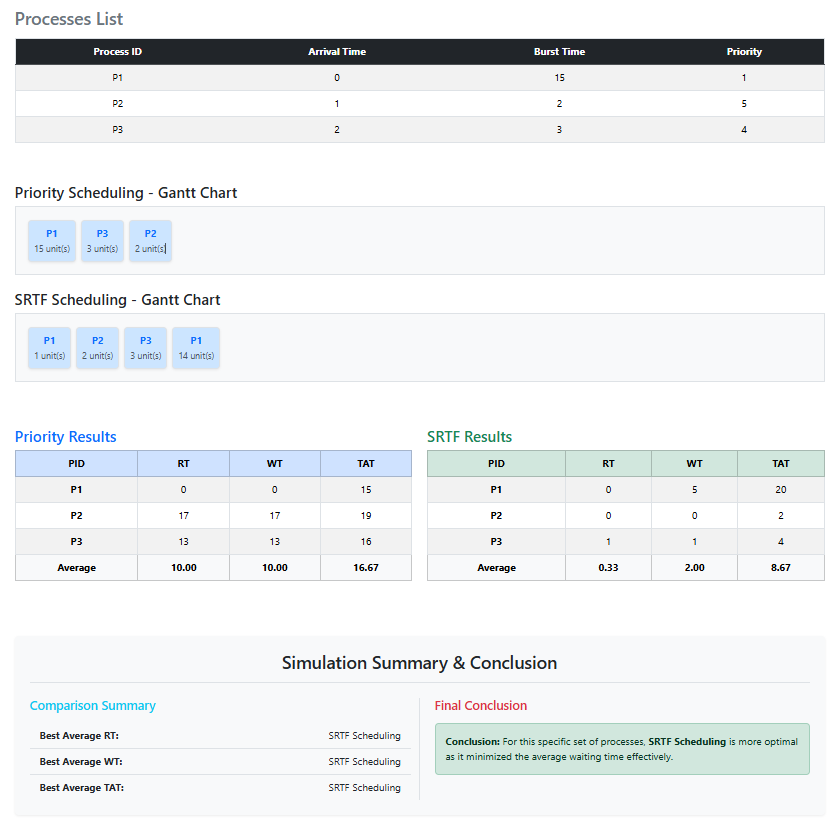
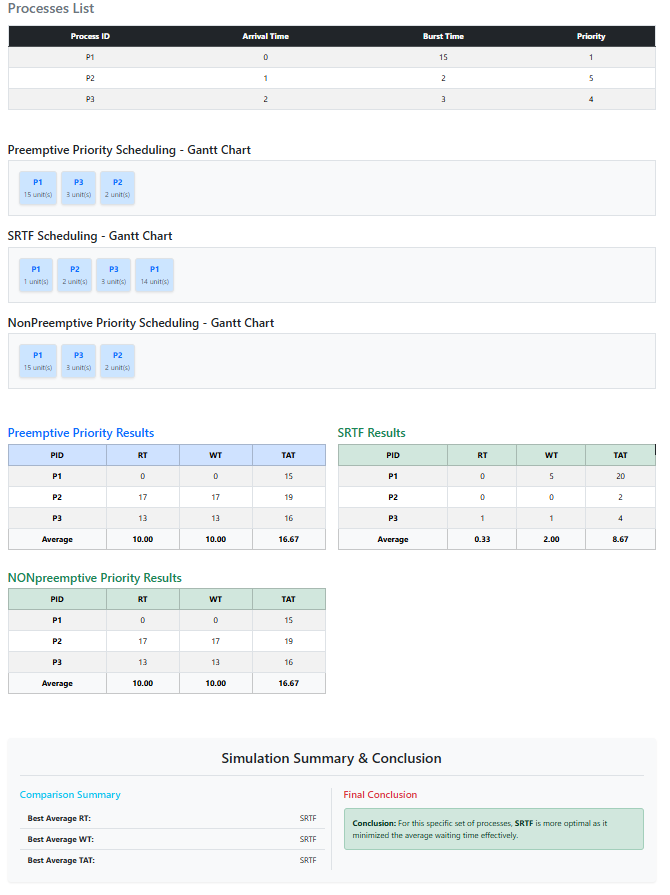
Final_V_2

diff --git a/src/metrics/Metrics.js b/src/metrics/Metrics.js
@@ -7,10 +7,22 @@ function calculateAverages(processes, timeline) {
 }
 
 function compare(p, s, np) {
-    let bestRT = (p.avgRT < s.avgRT &&p.avgRT < np.avgRT ) ? "Priority Scheduling" : (s.avgRT < p.avgRT && s.avgRT < np.avgRT) ? "SRTF Scheduling" :(np.avgRT < p.avgRT && np.avgRT < s.avgRT)? "Nonpreemptive Priority Scheduling ": "Tie (Both Equal)";
-    let bestWT = (p.avgWT < s.avgWT &&p.avgWT < np.avgWT ) ? "Priority Scheduling" : (s.avgWT < p.avgWT && s.avgWT < np.avgWT) ? "SRTF Scheduling" :(np.avgWT < p.avgWT && np.avgWT < s.avgWT)? "Nonpreemptive Priority Scheduling ": "Tie (Both Equal)";
-    let bestTAT =(p.avgTAT < s.avgTAT &&p.avgTAT < np.avgTAT ) ? "Priority Scheduling" : (s.avgTAT < p.avgTAT && s.avgTAT < np.avgTAT) ? "SRTF Scheduling" :(np.avgTAT < p.avgTAT && np.avgTAT < s.avgTAT)? "Nonpreemptive Priority Scheduling ": "Tie (Both Equal)";
+    
+    function getBestAlgorithm(pVal, sVal, npVal) {
+        let minVal = Math.min(pVal, sVal, npVal);
+        let winners = [];
+        
+        if (pVal === minVal) winners.push("Preemptive Priority");
+        if (sVal === minVal) winners.push("SRTF");
+        if (npVal === minVal) winners.push("Non-Preemptive Priority");
+        
+        if (winners.length === 3) return "Tie (All Equal)";
+        return winners.join(" & ");
+    }
 
+    let bestRT = getBestAlgorithm(p.avgRT, s.avgRT, np.avgRT);
+    let bestWT = getBestAlgorithm(p.avgWT, s.avgWT, np.avgWT);
+    let bestTAT = getBestAlgorithm(p.avgTAT, s.avgTAT, np.avgTAT);
 
     document.getElementById("bestRtAlgorithm").innerText = bestRT;
     document.getElementById("bestWtAlgorithm").innerText = bestWT;
@@ -19,14 +31,19 @@ function compare(p, s, np) {
     let conclusionBox = document.getElementById("finalConclusionBox");
     conclusionBox.className = "alert alert-success"; 
     
-    if (p.avgWT < s.avgWT && p.avgWT < np.avgWT) {
-        conclusionBox.innerHTML = `<strong>Conclusion:</strong> For this specific set of processes, <strong>Priority Scheduling</strong> performed better overall due to lower waiting times.`;
-    } else if (s.avgWT < p.avgWT && s.avgWT < np.avgWT) {
-        conclusionBox.innerHTML = `<strong>Conclusion:</strong> For this specific set of processes, <strong>SRTF Scheduling</strong> is more optimal as it minimized the average waiting time effectively.`;
-    }else if(np.avgWT < s.avgWT && np.avgWT < p.avgWT) {
-        conclusionBox.innerHTML = `<strong>Conclusion:</strong> For this specific set of processes, <strong>Nonpreemptive Priority Scheduling</strong> is more optimal as it minimized the average waiting time effectively.`;
-    }else {
-        conclusionBox.innerHTML = `<strong>Conclusion:</strong> Both algorithms performed identically for this specific input in terms of average waiting time.`;
+    let minWT = Math.min(p.avgWT, s.avgWT, np.avgWT);
+    let winnersWT = [];
+    
+    if (p.avgWT === minWT) winnersWT.push("<strong>Preemptive Priority</strong>");
+    if (s.avgWT === minWT) winnersWT.push("<strong>SRTF</strong>");
+    if (np.avgWT === minWT) winnersWT.push("<strong>Non-Preemptive Priority</strong>");
+
+    if (winnersWT.length === 3) {
+        conclusionBox.innerHTML = `<strong>Conclusion:</strong> All three algorithms performed identically for this specific input in terms of average waiting time.`;
+    } else if (winnersWT.length === 2) {
+        conclusionBox.innerHTML = `<strong>Conclusion:</strong> For this specific set of processes, ${winnersWT.join(" and ")} performed best as they equally minimized the average waiting time.`;
+    } else {
+        conclusionBox.innerHTML = `<strong>Conclusion:</strong> For this specific set of processes, ${winnersWT[0]} is more optimal as it minimized the average waiting time effectively.`;
     }
 }
 

diff --git a/test-cases/Scenario_A.md b/test-cases/Scenario_A.md
@@ -62,6 +62,14 @@ Based on the simulation results, the following processes were used:
      | P3 | 2 | 21 | 19 | 10 | 10 |
      | P4 | 3 | 26 | 23 | 18 | 18 |
 
+     ### Priority Scheduling (Non Preemptive)
+     | Process | AT | CT | TAT (CT-AT) | WT (TAT-BT) | RT |
+     | :--- | :---: | :---: | :---: | :---: | :---: |
+     | P1 | 0 | 8 | 8 | 0 | 0 |
+     | P2 | 1 | 12 | 11 | 7 | 7 |
+     | P3 | 2 | 26 | 24 | 15 | 15 |
+     | P4 | 3 | 17 | 14 | 9 | 9 |
+
      ### SRTF Scheduling
      | Process | AT | CT | TAT (CT-AT) | WT (TAT-BT) | RT |
      | :--- | :---: | :---: | :---: | :---: | :---: |
@@ -71,14 +79,14 @@ Based on the simulation results, the following processes were used:
      | P4 | 3 | 10 | 7 | 2 | 2 |
 
      ## 6-Results Summary (Averages):
-     | Metric | Priority Scheduling | SRTF Scheduling |
+     | Metric | Preemptive Priority Scheduling | SRTF Scheduling | Non preemptive Priority Scheduling
      | :--- | :---: | :---: |
-     | Avg Waiting Time | 8.00 ms | 6.50 ms |
-     | **Avg Turnaround Time** | 14.50 ms | 13.00 ms |
-     | **Avg Response Time** | 7.00 ms | 4.25 ms |
+     | Avg Waiting Time | 8.00 ms | 6.50 ms | 7.75 ms
+     | **Avg Turnaround Time** | 14.50 ms | 13.00 ms | 14.25 ms
+     | **Avg Response Time** | 7.00 ms | 4.25 ms | 7.75 ms
 
      ## 7-Conclusion
-     SRTF performed better in this scenario with a lower Average Waiting Time (**6.50 ms**). The difference in P1's waiting time (4ms vs 9ms) shows how SRTF prioritize shorter tasks over the original process
+     SRTF performed better in this scenario with a lower Average Waiting Time (**6.50 ms**). The difference in P1's waiting time (4ms vs 0ms vs 9ms) shows how SRTF prioritize shorter tasks over the original process
 
      ![Scenario A Result](../screenshots/Senario_A.PNG)
    

diff --git a/test-cases/Scenario_C.md b/test-cases/Scenario_C.md
@@ -52,6 +52,14 @@ To verify the code results, we calculate the metrics for P1 manually:
 | P3 | 2 | 5 | 3 | 1 | 1 |
 | P4 | 3 | 7 | 4 | 2 | 2 |
 
+#### Priority Scheduling (Non Preemptive)
+| Process | AT | CT | TAT (CT-AT) | WT (TAT-BT) | RT |
+| :--- | :---: | :---: | :---: | :---: | :---: |
+| P1 | 0  | 20 | 20 | 0 | 0 |
+| P2 | 1 | 22 | 21 | 19 | 19 |
+| P3 | 2 | 24 | 22 | 20 | 20 |
+| P4 | 3 | 26 | 23 | 21 | 21 |
+
 #### SRTF Scheduling
 | Process | AT | CT | TAT (CT-AT) | WT (TAT-BT) | RT |
 | :--- | :---: | :---: | :---: | :---: | :---: |
@@ -63,15 +71,15 @@ To verify the code results, we calculate the metrics for P1 manually:
 
 
 ### 6- Results Summary (Averages):
-| Metric | Priority Scheduling | SRTF Scheduling |
+| Metric | Preemptive Priority Scheduling | SRTF Scheduling | Non Preemptive Priority
 | :--- | :---: | :---: |
-| Avg Waiting Time | 2.25 ms | 2.25 ms |
-| Avg Turnaround Time | 8.75 ms | 8.75 ms |
-| Avg Response Time | 0.75 ms | 0.75 ms |
+| Avg Waiting Time | 2.25 ms | 2.25 ms | 15ms
+| Avg Turnaround Time | 8.75 ms | 8.75 ms | 15ms
+| Avg Response Time | 0.75 ms | 0.75 ms | 21.5ms
 
 
 
 ### 7- Conclusion
-In this scenario, both algorithms performed identically. The Comparison Summary shows a "Tie" in all metrics (Waiting Time, Turnaround Time, and Response Time). This proves that when priority assignments align with task lengths, the scheduling overhead and decisions become unified.
+In this scenario, there are tie between preemptive priority and SRTF and they are best optimal. The Comparison Summary shows a "Tie" in all metrics (Waiting Time, Turnaround Time, and Response Time). This proves that when priority assignments align with task lengths, the scheduling overhead and decisions become unified.
 
 ![Scenario C Result](../screenshots/Senario_C.PNG)

diff --git a/test-cases/Scenario_B.md b/test-cases/Scenario_B.md
@@ -56,6 +56,13 @@ To verify the code results, we calculate the metrics for P1 manually:
 | P2 | 1 | 20 | 19 | 17 | 17 |
 | P3 | 2 | 18 | 16 | 13 | 13 |
 
+#### Priority Scheduling (Non Preemptive)
+| Process | AT | CT | TAT (CT-AT) | WT (TAT-BT) | RT |
+| :--- | :---: | :---: | :---: | :---: | :---: |
+| P1 | 0 | 15 | 15 | 0 | 0 |
+| P2 | 1 | 20 | 19 | 17 | 17 |
+| P3 | 2 | 18 | 16 | 13 | 13 |
+
 #### SRTF Scheduling
 | Process | AT | CT | TAT (CT-AT) | WT (TAT-BT) | RT |
 | :--- | :---: | :---: | :---: | :---: | :---: |
@@ -66,11 +73,11 @@ To verify the code results, we calculate the metrics for P1 manually:
 
 
 ### 6- Results Summary (Averages):
-| Metric | Priority Scheduling | SRTF Scheduling |
+| Metric | Preemptive Priority Scheduling | SRTF Scheduling | Non preemptive Priority Scheduling
 | :--- | :---: | :---: |
-| Avg Waiting Time | 10.00 ms | 2.00 ms |
-| Avg Turnaround Time | 16.67 ms | 8.67 ms |
-| Avg Response Time | 10.00 ms | 0.33 ms |
+| Avg Waiting Time | 10.00 ms | 2.00 ms | 10.00 ms
+| Avg Turnaround Time | 16.67 ms | 8.67 ms | 16.67 ms
+| Avg Response Time | 10.00 ms | 0.33 ms | 10.00 ms
 
 
 

diff --git a/README.md b/README.md
@@ -49,7 +49,7 @@ assets/: contain details about used CPU algoriithms and pseudocode.
   
 -	The smallest priority number is the highest priority.
   
--	It can be preemptive (interrupts the current process if a higher priority arrives) or non-preemptive (if no process with higher priority arrives will running current process) .
+-	It can be preemptive (interrupts the current process if a higher priority arrives) or non-preemptive (there isn't any interrupts in other words CPU doesn't stop running aany process until its terminate)
   
 -	Problem: the starvation problem (Low-priority processes may wait indefinitely and never execute).
   
